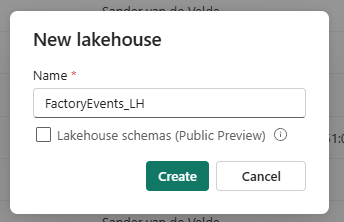
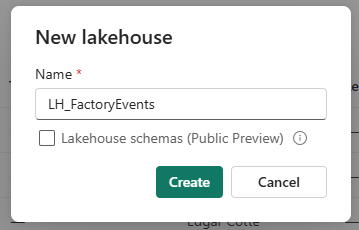
shortcuts

diff --git a/docs/workshop.md b/docs/workshop.md
@@ -1629,7 +1629,7 @@ Here, factory data from several 'silver' tables will be shared via OneLake so a 
 
 ![alt text](assets/image_task09_step04.png)
 
-5. In the dialog 'New Lakehouse' **insert** `FactoryEvents_LH` as the name and **click** on `Create`.
+5. In the dialog 'New Lakehouse' **insert** `LH_FactoryEvents` as the name and **click** on `Create`.
 
 ![alt text](assets/image_task09_step05.png)
 
@@ -1654,14 +1654,13 @@ Here, factory data from several 'silver' tables will be shared via OneLake so a 
 
 7. We see the KQL Database `EH_YCSneakerEventStore` is listed. **Select** it and **click the Next Button**. 
 
-
 ![alt text](assets/image_task09_step09.png)
 
-8. Notice that in OneLake, three KQL Database tables are available. Those are the 'silver' tables we made available for OneLake.
+8. Notice that KQL Database tables are available for selection. Those are the 'silver' tables we made available for OneLake.
 
 ![alt text](assets/image_task09_step11.png)
 
-9. **Select** all three tables via the check boxes and **press Next**.
+9. **Select** all three `SILVER` tables via the check boxes and **press Next**.
 
 ![alt text](assets/image_task09_step12.png)
 
@@ -1753,7 +1752,7 @@ Here, we are building a Digital Twin where our production line is operated by se
 
 ![alt text](assets/image_task10_step06.png)
 
-7. A Lakehouse table must be selected, **press** the `Select Lakehouse table` button first. **Select** the `FactoryEvents_LH` in the Workspace and **Select** the `productionline` table.
+7. A Lakehouse table must be selected, **press** the `Select Lakehouse table` button first. **Select** the `LH_FactoryEvents` in the Workspace and **Select** the `productionline` table.
 
 ![alt text](assets/image_task10_step07.png)
 
@@ -1793,7 +1792,7 @@ Here, we are building a Digital Twin where our production line is operated by se
 
 ![alt text](assets/image_task10_step16.png)
 
-16. **Repeat** the last steps by **adding** a generic entity with an entity name `Operator` and using the the `FactoryEvents_LH` Lakehouse `operator` table as datasource. The 'Unique Id' is the operator table `Id` column. **Add** _all_ columns as properties. The 'DisplayName' is the operator table `Name` column. Finally, **run** the ingestion flow by hand for 'operator' entity instances. (Optionally, you can add a scheduler for this mapping too.)
+16. **Repeat** the last steps by **adding** a generic entity with an entity name `Operator` and using the the `LH_FactoryEvents` Lakehouse `operator` table as datasource. The 'Unique Id' is the operator table `Id` column. **Add** _all_ columns as properties. The 'DisplayName' is the operator table `Name` column. Finally, **run** the ingestion flow by hand for 'operator' entity instances. (Optionally, you can add a scheduler for this mapping too.)
 
 ![alt text](assets/image_task10_step17.png)
 
@@ -1821,11 +1820,11 @@ Here, we are building a Digital Twin where our production line is operated by se
 
 ![alt text](assets/image_task10_step23.png)
 
-23. Until now, we have experienced how we can shape both entities, relationships, and instantiate actual entity instances (Twins) by ingesting the context data (production lines, operators, etc). By adding more entities and relationships, your _ontology_ can grow larger and larger. But, we are still missing one important part and that is mapping 'timeseries data' to entities and updating the timeseries related properties with the underlying timeseries rows. We already have three OneLake shortcut tables being filled with Eventhouse table rows in the 'FactoryEvents_LH' Lakehouse. **Let's map** these three tables and relate them via columns in the production line table (eg. energyMeterId, tempSensorId). **Navigate** to the 'mapping' tab of the 'Productionline entity' and **click** `Add data`.
+23. Until now, we have experienced how we can shape both entities, relationships, and instantiate actual entity instances (Twins) by ingesting the context data (production lines, operators, etc). By adding more entities and relationships, your _ontology_ can grow larger and larger. But, we are still missing one important part and that is mapping 'timeseries data' to entities and updating the timeseries related properties with the underlying timeseries rows. We already have three OneLake shortcut tables being filled with Eventhouse table rows in the 'LH_FactoryEvents' Lakehouse. **Let's map** these three tables and relate them via columns in the production line table (eg. energyMeterId, tempSensorId). **Navigate** to the 'mapping' tab of the 'Productionline entity' and **click** `Add data`.
 
 ![alt text](assets/image_task10_step24.png)
 
-24. In the new dialog, select the data source. As Lakehouse, **select** `FactoryEvents_LH` and as table, **select** `SilverLoraWanTemperature`. **Select** this data source.
+24. In the new dialog, select the data source. As Lakehouse, **select** `LH_FactoryEvents` and as table, **select** `SilverLoraWanTemperature`. **Select** this data source.
 
 ![alt text](assets/image_task10_step25.png)
 
